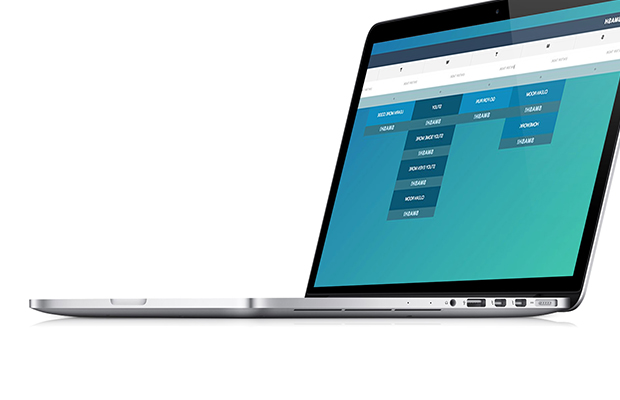
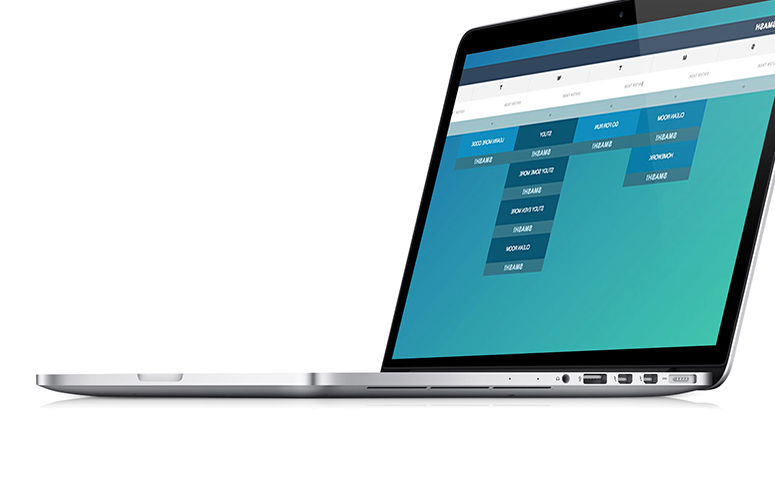
project image and button alignment

diff --git a/index.html b/index.html
@@ -48,6 +48,7 @@
 
 <!-- MALIA PROJECT -->
   <div class="maliaDiv container-fluid">
+    <div>
     <div class="col-sm-7 maliaDesc">
       <div  class="maliaText">
         <h1 class="maliaHeader">
@@ -63,34 +64,54 @@
           Technologies used: AngularJS, HTML5, CSS3, Bootstrap, Express.js, Node.js, Passport, PostgresSQL
         </p>
           <div>
-            <button class="button button5" type="button" name="button">VIEW LIVE PROJECT</button>
+            <a href="https://secure-shelf-37019.herokuapp.com/#/home" target="_blank"><button class="button button5" type="button" name="button">VIEW LIVE PROJECT</button></a>
           </div>
       </div>
     </div>
 
-    <div class="col-sm-5 maliaImg">
+    <div class="col-sm-5 projImg">
       <img src="public/assets/malia.jpg" alt="">
     </div>
   </div>
+  </div>
 
 <!-- PROSMASH PROJECT -->
-  <div class="prosmashDiv">
-    <div class="col-sm-5">
-      <img src="public/assets/prosmash.jpg" alt="">
+<div class="maliaDiv container-fluid">
+  <div>
+
+    <div class="col-sm-5 projImg">
+      <img class=" leftImg" src="public/assets/prosmash.jpg" alt="">
     </div>
 
-    <div class="col-sm-7  prosmashDesc">
-      Hello
+    <div class="col-sm-7 maliaDesc">
+      <div  class="maliaText">
+        <h1 class="maliaHeader">
+          Malia Dragon Boat Racing Application
+        </h1>
+        <p>
+          Malia Dragon Boat Racing Team travels out of state many times a year. They approached my team
+          with the problem of organizing accomodation when they travel for races. We developed an online
+          application that provides a way to send out surveys and then set up rooms accordingly so teamates
+          can save money and room together.
+        </p>
+        <p>
+          Technologies used: AngularJS, HTML5, CSS3, Bootstrap, Express.js, Node.js, Passport, PostgresSQL
+        </p>
+          <div>
+            <a href="https://secure-shelf-37019.herokuapp.com/#/home" target="_blank"><button class="button button5" type="button" name="button">VIEW LIVE PROJECT</button></a>
+          </div>
+      </div>
     </div>
+
   </div>
+</div>
+
+  </body>
 
   <div class="linkDiv">
     <a class="socialLinks" href="https://www.linkedin.com/in/waldroncraig"><i class="fa fa-linkedin fa-2x" aria-hidden="true"></i></a>
     <a class="socialLinks" href="https://github.com/craigjwaldron"><i class="fa fa-github fa-2x" aria-hidden="true"></i></a>
     <a class="socialLinks" href="https://codepen.io/craigdubya/"><i class="fa fa-codepen fa-2x" aria-hidden="true"></i></a>
   </div>
-
-  </body>
-
 
 </html>

diff --git a/public/css/stylesheet.css b/public/css/stylesheet.css
@@ -20,6 +20,10 @@ body {
   padding: 0px !important;
 }
 
+.col-sm-7 {
+  padding: 0px !important;
+}
+
 /*HEADER SECTION*/
 .mainHeader {
   background-image: url("../assets/Craig-Waldron.jpg");
@@ -79,10 +83,6 @@ body {
 
 /*MALIA PROJECT*/
 .maliaDiv {
-}
-
-.maliaDesc {
-  height: auto;
   background-color: #f3a90a;
 }
 
@@ -93,14 +93,22 @@ body {
 }
 
 .maliaText {
-  padding: 3em;
+  padding: 5em;
   color: #5c5c5c;
   font-family: 'Maven Pro', sans-serif;
 }
 
-.prosmashDesc {
-  height: 400px;
-  background-color: #1c78ac;
+.leftImg {
+  float: left;
+  min-width: 100%;
+ min-height: 100%
+}
+
+.projImg {
+  display: flex;
+  justify-content: center;
+  align-items: center;
+  overflow: hidden;
 }
 
 /*BUTTONS*/
